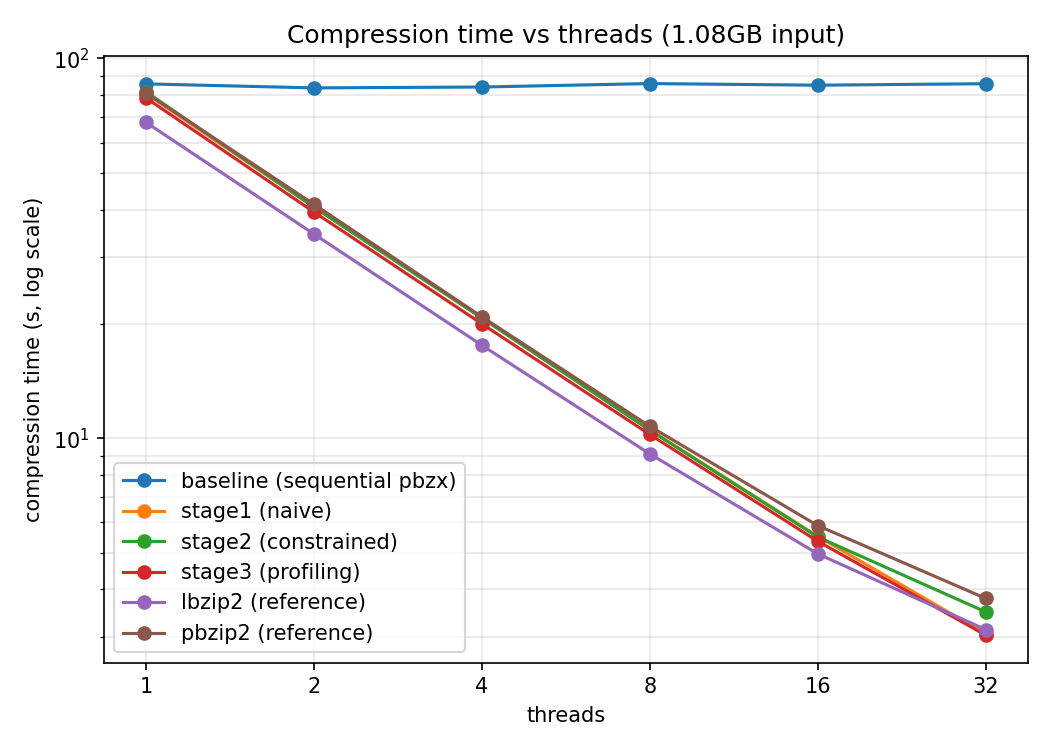
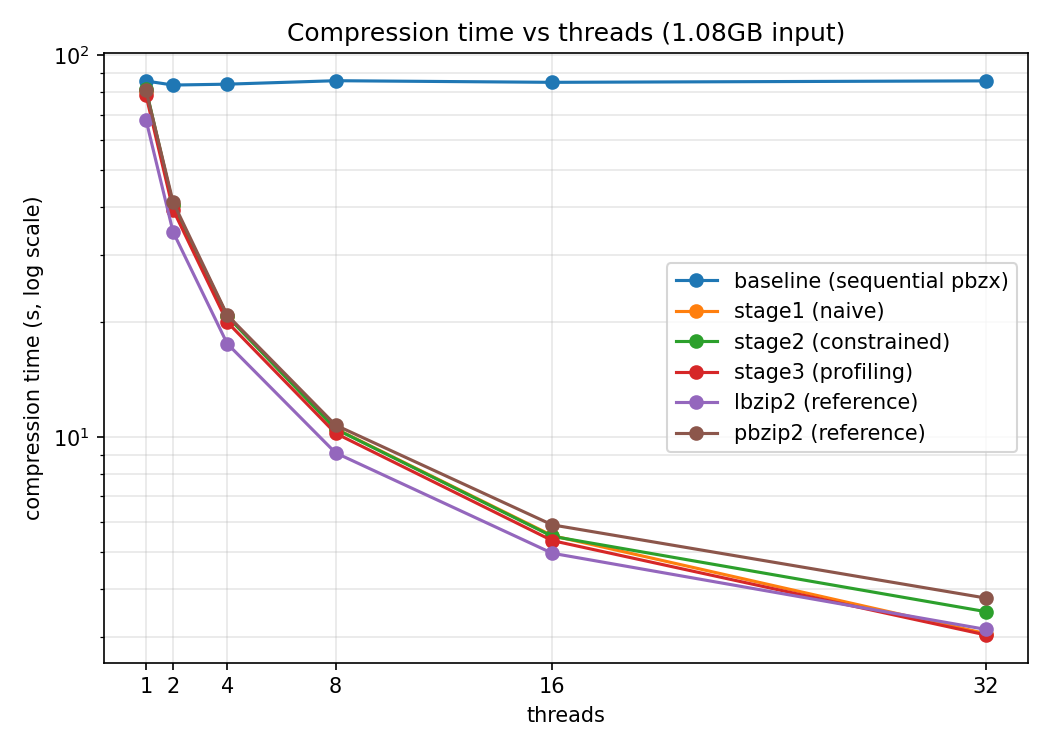
Change plot scale

diff --git a/experiments/comparison/build_comparison.py b/experiments/comparison/build_comparison.py
@@ -88,8 +88,8 @@ def plot_runtime(times):
         means = mean_by_threads(by_t)
         xs = sorted(means)
         ax.plot(xs, [means[x] for x in xs], marker="o", label=impl)
-    ax.set_xscale("log", base=2)
-    ax.set_yscale("log")
+    # ax.set_xscale("log", base=2)
+    ax.set_yscale("log", base=10)
     ax.set_xticks([1, 2, 4, 8, 16, 32])
     ax.set_xticklabels(["1", "2", "4", "8", "16", "32"])
     ax.set_xlabel("threads")
@@ -114,8 +114,7 @@ def plot_speedup(times):
         means = mean_by_threads(by_t)
         xs = sorted(means)
         ax.plot(xs, [base / means[x] for x in xs], marker="o", label=impl)
-    ax.set_xscale("log", base=2)
-    ax.set_yscale("log", base=2)
+    # ax.set_xscale("log", base=2)
     ax.set_xticks(thread_vals)
     ax.set_xticklabels([str(v) for v in thread_vals])
     ax.set_yticks(thread_vals)
@@ -138,9 +137,10 @@ def plot_throughput(tputs):
         means = mean_by_threads(by_t)
         xs = sorted(means)
         ax.plot(xs, [means[x] for x in xs], marker="o", label=impl)
-    ax.set_xscale("log", base=2)
+    # ax.set_xscale("log", base=2)
     ax.set_xticks([1, 2, 4, 8, 16, 32])
     ax.set_xticklabels(["1", "2", "4", "8", "16", "32"])
+    ax.set_ylim(bottom=0)
     ax.set_xlabel("threads")
     ax.set_ylabel("throughput (MB/s)")
     ax.set_title("Throughput vs threads (1.08GB input)")